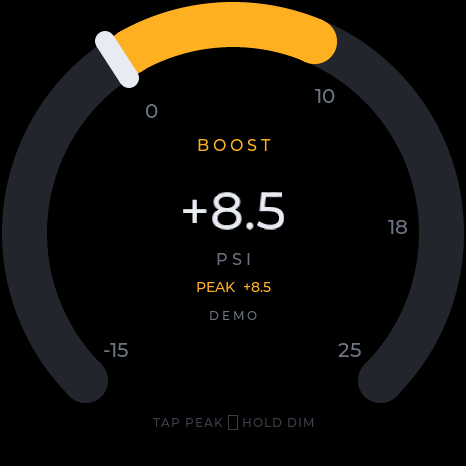
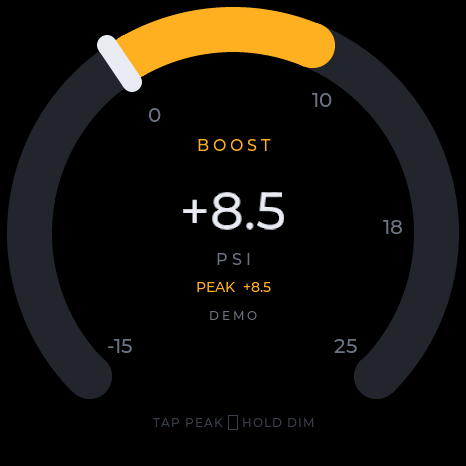
Actually inset the gauge arc 5px from the edge
ARC_DIAMETER 462→452 and TICK_RADIUS 165→160. Previous v0.1.13
commit did not change sources; this does.

diff --git a/main/boost_gauge.c b/main/boost_gauge.c
@@ -58,16 +58,16 @@
 #define ARC_RANGE     270
 
 #define DISP_SIZE     466
-/* Fill the AMOLED almost edge-to-edge (leave a couple px so rounded caps clip cleanly). */
-#define ARC_DIAMETER  462
+/* Full-bleed face; arc inset 5px from panel edge (diameter -10). */
+#define ARC_DIAMETER  452
 #define ARC_WIDTH     45   /* ~1.5× the previous 30px stroke */
-#define ZERO_LINE_W   20   /* +2px to cover residual join under the mark */
-/* Zero-side hide gap — keep boost matched to vacuum (boost was over-gapped). */
+#define ZERO_LINE_W   20
+/* Zero-side hide gap — boost tuned via sim pixels (3.8 clean; 4.0 margin). */
 #define ZERO_GAP_VAC_DEG   3.6f
 #define ZERO_GAP_BOOST_DEG 4.00f
 #define TICK_FONT     (&lv_font_montserrat_20)
-/* Tick labels sit just inside the thicker full-size arc. */
-#define TICK_RADIUS   165.0f
+/* Tick labels sit just inside the thicker inset arc. */
+#define TICK_RADIUS   160.0f
 #define HOLD_DIM_MS   2000
 /* Soft well under the face — full panel, no black outer ring. */
 #define WELL_SIZE     DISP_SIZE
